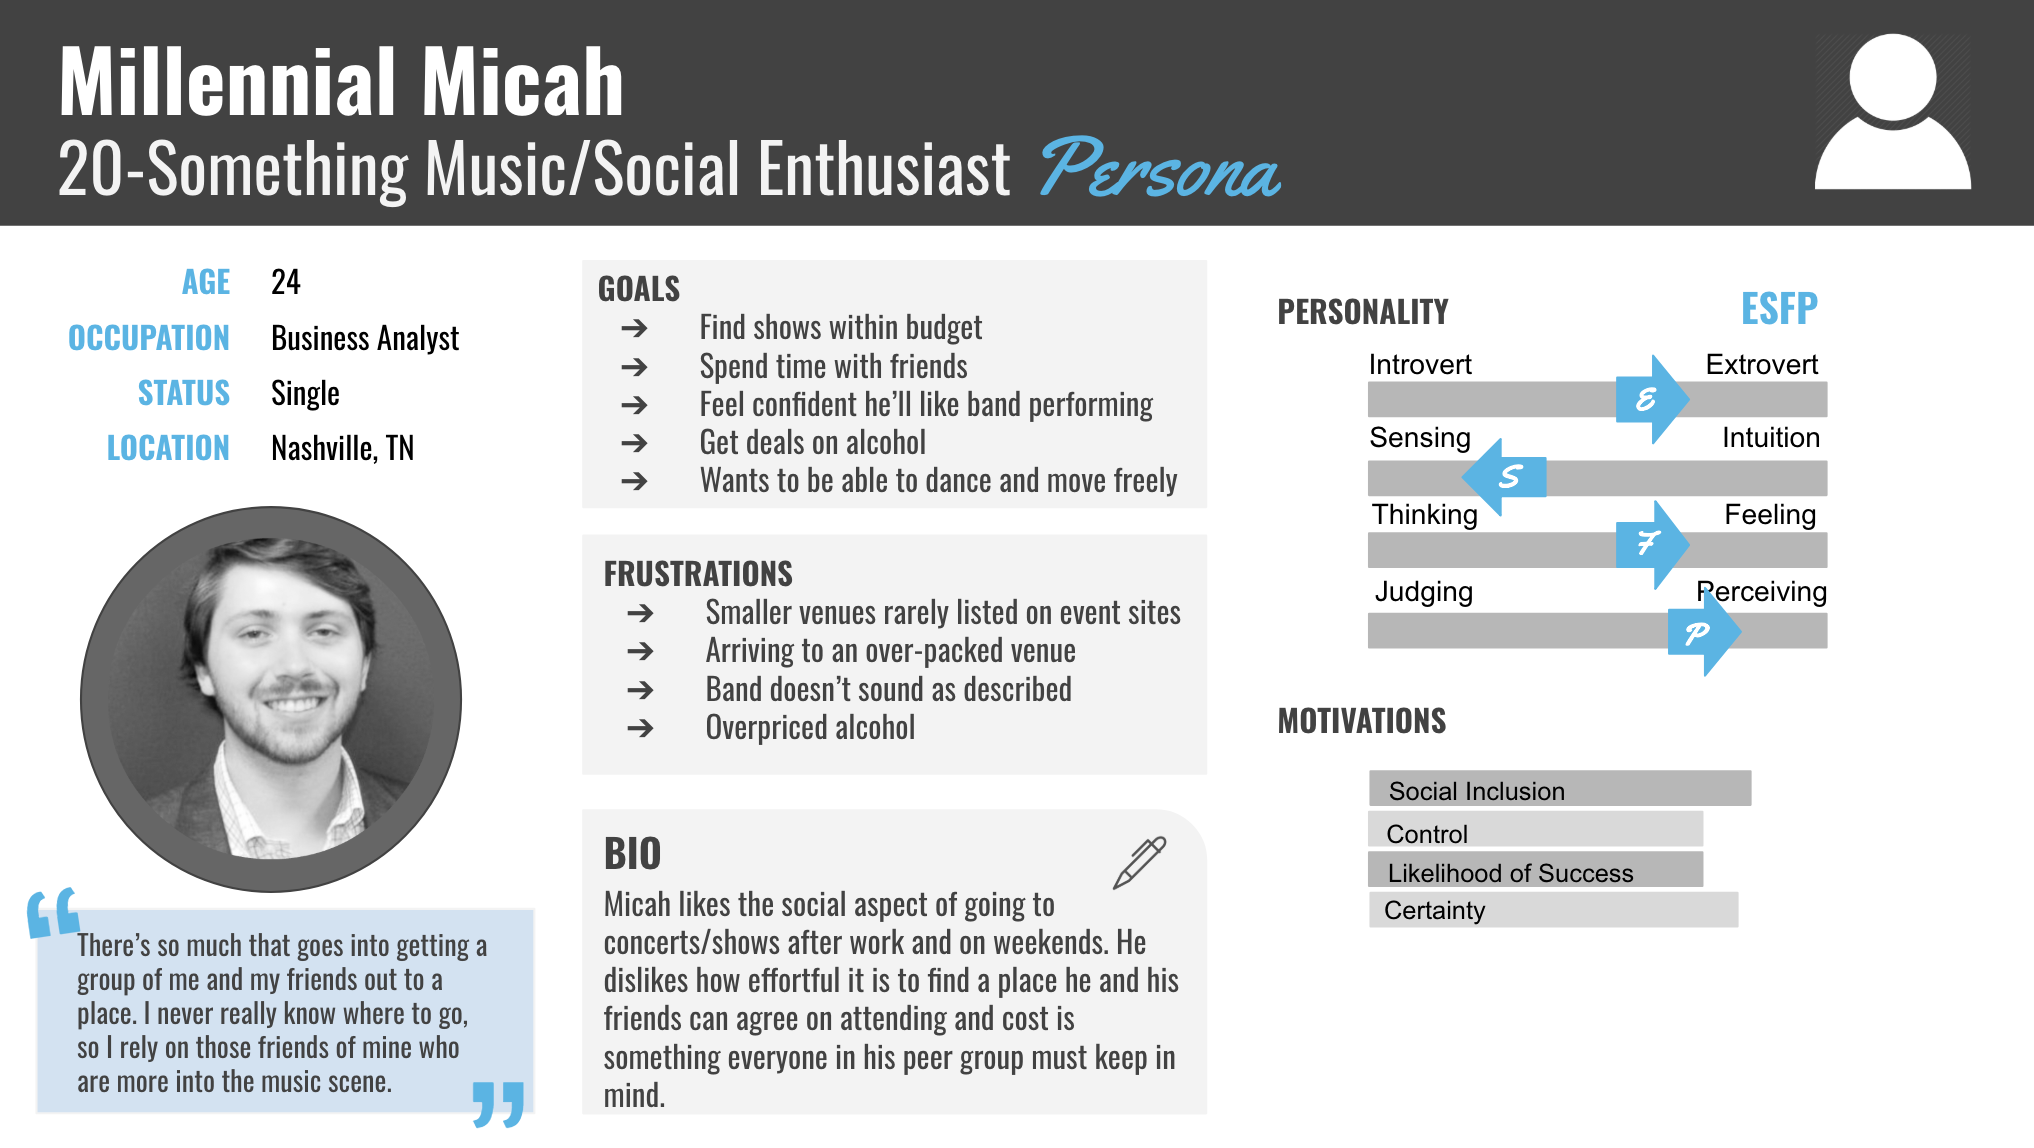
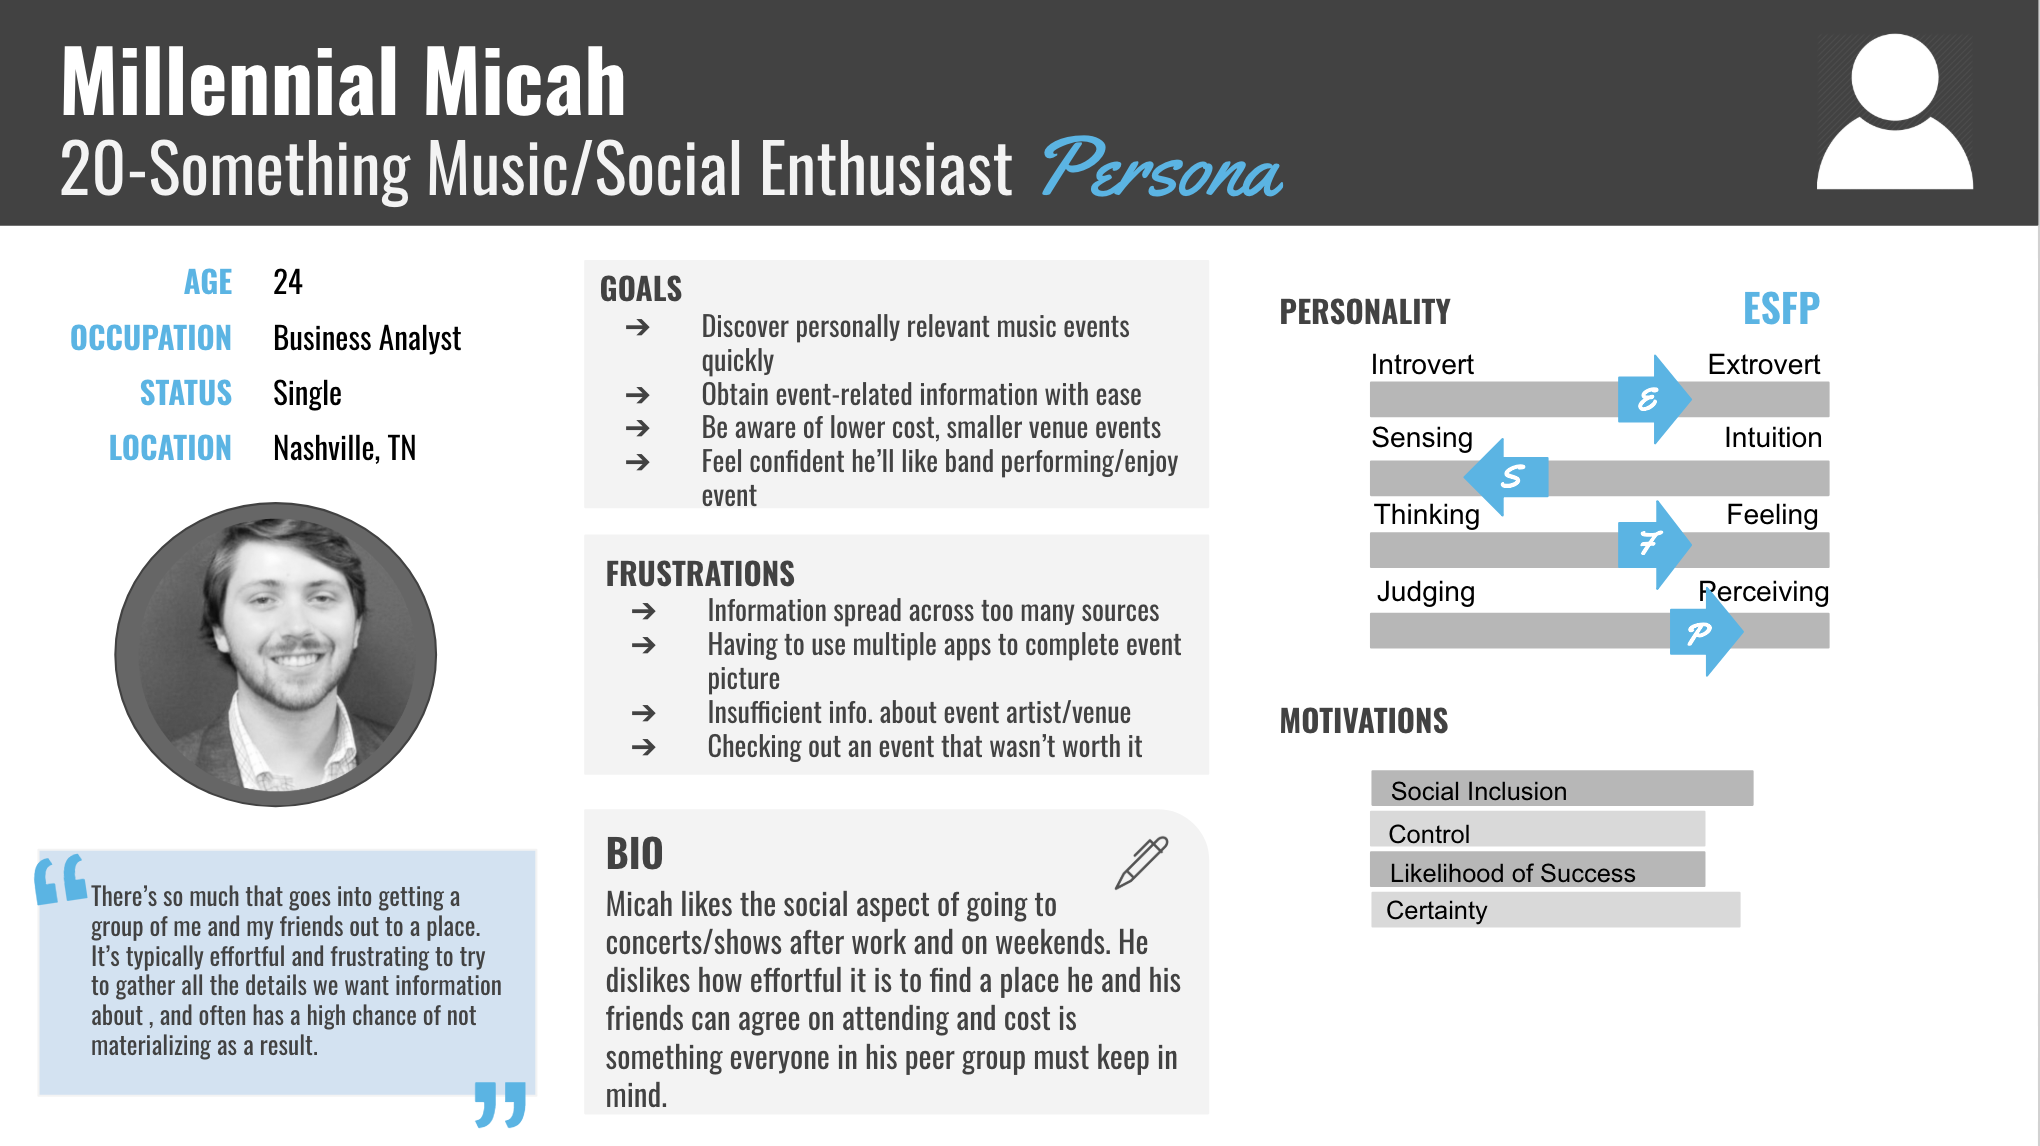
Tweaks3

diff --git a/hiKarl.html b/hiKarl.html
@@ -224,9 +224,9 @@
                 How Might We?
               </h2>
               <p class="blurbs">
-                Following a strong project kickoff meeting with stakeholders, I began the discovery process by framing the project challenge
-                in the most human way I could. What followed was a refining of the challenge into a problem statement that
-                would drive toward the ultimate impact, allow for a variety of solutions, and take context into consideration.
+                Following a project kickoff meeting with stakeholders, I began the discovery process by framing the project challenge in
+                the most human way I could. What followed was a refining of the challenge into a problem statement that would
+                drive toward the ultimate impact, allow for a variety of solutions, and take context into consideration.
               </p>
               <br>
               <br>
@@ -241,21 +241,38 @@
                 <br>
                 <br>
                 <p>Problem statement study. Used post-it notes to quickly jot down ideas, consider all statements together,
-                  and easily remove insufficent answers and insert better ones where necessary . </p>
+                  and easily remove insufficent answers and insert better ones where necessary.</p>
                 <br>
                 <br>
               </div>
 
-              <img src="img/myPics/challenge.PNG" class="img-fluid addMarginBottom d-block z-depth-3 specs" alt="Responsive image">
+              <img src="img/myPics/challenge.PNG" class="img-fluid d-block z-depth-3 specs" alt="Responsive image">
             </div>
+
+            <div class="col-xs-12 centerMe">
+              <br>
+              <br>
+              <br>
+              <p>Slide from client presentation deck.</p>
+              <br>
+              <br>
+              <br>
+              <br>
+            </div>
+
           </div>
         </div>
 
 
         <!-- 4. Understanding the Ultimate Impact -->
 
+        <br>
+        <br>
+        <br>
+
         <h2 class="section-heading openSemiBold">Understanding the Ultimate Impact</h2>
         <hr>
+        <br>
         <br>
         <br>
         <br>
@@ -265,6 +282,15 @@
 
             <div class="col-md-12">
               <img src="img/myPics/impact.PNG" class="img-fluid mx-auto d-block z-depth-3 specs" alt="Responsive image">
+
+            </div>
+
+            <div class="col-xs-12 centerMe">
+              <br>
+              <br>
+              <br>
+              <p>Slide from client presentation deck.</p>
+              <br>
               <br>
               <br>
             </div>
@@ -280,7 +306,7 @@
               <br>
               <br>
               <blockquote class="blockquote bq-primary" id="makeBlk">
-                <p>"How will you know you've achieved everything you can imagine and then it's 'all down hill from here'?"</p>
+                <p>"How will you know you've achieved everything you can imagine and that it's 'all down hill from here'?"</p>
               </blockquote>
 
             </div>
@@ -289,9 +315,10 @@
 
 
 
-        <!-- 5. Building a Representative Persona -->
+        <!-- 5. Preparing for Research -->
 
-        <h2 class="section-heading openSemiBold">Building a Provisional Persona</h2>
+        <h2 class="section-heading openSemiBold">Preparing for Research</h2>
+        <hr>
         <hr>
         <br>
         <br>
@@ -301,12 +328,16 @@
           <div class="row">
             <div class="col-md-12">
               <h2 class="headings openItalic">
-                Who's Our Target?
+                Scripting Success
               </h2>
-              <p class="blurbs"> To begin the design process with our true target audience in mind, I created user interview guides for strategic
-                customer discovery and conducted qualitative research with seven prospective users to generate a provisional
-                persona encompassing personality, demographics, key behaviors, common goals, frequent frustrations, and psychological
-                motivations.
+              <p class="blurbs"> To ensure the validity of the problem statement defined in the discovery phase and optimize the design work
+                ahead, I created user interview guides for strategic customer discovery and conducted qualitative research
+                with seven prospective users. All questions were carefully scripted ahead of time so as to elicit the most
+                useful and unbiased responses from participants. Interviews were audiotaped with subject permission for later
+                review.
+                <br>
+                <br> Participants were also asked to engage with the application as it currently existed to allow me the opprtunity
+                to observe the interaction.
               </p>
               <br>
               <br>
@@ -330,34 +361,36 @@
                   <p>Selected pages from user interview guide.</p>
                   <br>
                   <br>
+                  <br>
+                  <br>
+                  <br>
+                  <br>
+                  <br>
+                  <br>
                 </div>
               </div>
-              <!-- <img src="img/myPics/guide.PNG" class="img-fluid mx-auto d-block z-depth-3 addMarginBottom width2" alt="Responsive image">
-              <img src="img/myPics/p4.PNG" class="img-fluid mx-auto d-block z-depth-3 addMarginBottom width2" alt="Responsive image"> -->
-              <img src="img/myPics/persona.PNG" class="img-fluid mx-auto d-block z-depth-3" alt="Responsive image">
+
+              <!-- <img src="img/myPics/persona.PNG" class="img-fluid mx-auto d-block z-depth-3" alt="Responsive image"> -->
             </div>
 
-            <div class="col-xs-12 centerMe">
+            <!-- <div class="col-xs-12 centerMe">
+              <br>
+              <br>
+              <p>Commentary.</p>
               <br>
               <br>
               <br>
-              <p>Insert commentary here.</p>
               <br>
-              <br>
-              <br>
-              <br>
-
-            </div>
+            </div> -->
 
           </div>
         </div>
 
 
+        <!-- 6. Mining for Patterns -->
 
-        <!-- 6. Identifying Themes & Extracting Insights -->
 
-
-        <h2 class="section-heading openSemiBold">Identifying Themes & Extracting Insights</h2>
+        <h2 class="section-heading openSemiBold">Mining For Patterns</h2>
         <hr>
         <br>
         <br>
@@ -368,11 +401,12 @@
 
             <div class="col-md-12">
               <h2 class="headings openItalic">
-                Heading
+                Identifying Themes & Extracting Insights
               </h2>
               <p class="blurbs">
-                Donec id elit non mi porta gravida at eget metus. Fusce dapibus, tellus ac cursus commodo, tortor mauris condimentum nibh,
-                ut fermentum massa justo sit amet risus. Etiam porta sem malesuada magna mollis euismod. Donec sed odio dui.
+                While listening to playback of each audiotaped session, I quickly wrote down subject quotes, frustrations, motivations and
+                other informational tidbits on post-it notes. After then sorting these notes by affinity, a number of thematic
+                patterns surfaced that helped me then go on to build a lean persona of the user I was designing for.
               </p>
               <br>
               <br>
@@ -404,7 +438,12 @@
 
             <div class="col-xs-12 centerMe">
               <br>
-              <p>Insert commentary here.</p>
+              <p>Three of eight themes uncovered in the research phase. Design features of the existing application clearly
+                spoke to some of the themes outlined; however, many themes arose that had not been addressed in the existing
+                design. For example, the existing design recommended music events associated with the user's Spotify listening
+                habits but provided no way for users to make a quick mental association of what the recommended event artist
+                sounded like. Consequently, confidence in the prospect of enjoying an event was diminished and resulted in
+                a user being less likely to follow through and attend the event.</p>
               <br>
               <br>
               <br>
@@ -416,9 +455,53 @@
         </div>
 
 
+        <!-- 7. Building a Representative Persona -->
+
+
+        <h2 class="section-heading openSemiBold">Building a Lean Persona</h2>
+        <hr>
+        <br>
+        <br>
+        <br>
+
+        <div class="col-md-12">
+          <div class="row">
+            <div class="col-md-12">
+              <h2 class="headings openItalic">
+                Getting Off on the Goal-Directed Foot
+              </h2>
+              <p class="blurbs">
+                The thematic patterns identified in my research findings were then synthesized to generate a representative persona encompassing
+                personality, demographics, key behaviors, common goals, frequent frustrations, and psychological motivations.
+                This deliverable served as a foundation for moving forward with goal-directed design in mind.
+              </p>
+              <br>
+              <br>
+
+            </div>
+            <div class="col-md-12">
+              <img src="img/myPics/persona.PNG" class="img-fluid mx-auto d-block z-depth-3" alt="Responsive image">
+            </div>
+
+            <div class="col-xs-12 centerMe">
+              <br>
+              <br>
+              <br>
+              <p>According to Alan Cooper, author of goal-directed design methodology, it is when your persona archetype's needs
+                are satisfied in multiple scenarios that you may consider yourself on the right track.</p>
+              <br>
+              <br>
+              <br>
+              <br>
+            </div>
+
+          </div>
+        </div>
+
+
         <!-- 7. Mapping the User's Journey -->
 
-
+        <!--
         <h2 class="section-heading openSemiBold">Mapping the User's Journey</h2>
         <hr>
         <br>
@@ -455,10 +538,10 @@
             </div>
 
           </div>
-        </div>
+        </div> -->
 
 
-        <!-- 8. Examining the Existing Structure -->
+        <!-- 8. Examining the Existing Design -->
 
         <h2 class="section-heading openSemiBold">Examining the Existing Design</h2>
         <hr>
@@ -471,11 +554,15 @@
 
             <div class="col-md-12">
               <h2 class="headings openItalic">
-                Heading
+                Content Sampling
               </h2>
               <p class="blurbs">
-                Donec id elit non mi porta gravida at eget metus. Fusce dapibus, tellus ac cursus commodo, tortor mauris condimentum nibh,
-                ut fermentum massa justo sit amet risus. Etiam porta sem malesuada magna mollis euismod. Donec sed odio dui.
+                To identify what research validated user goals the existing design met and what goals had no identifiable solution, I completed
+                a quick content sample. While a highly detailed content audit is ideal, a quick top-level inventory of what
+                the existing design included was sufficient to spot what goals were being left unaddressed.
+                <br>
+                <br> The slides below simply identify the widgets in the existing design.
+
               </p>
               <br>
               <br>
@@ -507,7 +594,7 @@
 
             <div class="col-xs-12 centerMe">
               <br>
-              <p>Insert commentary here.</p>
+              <p>The existing design left much to be desired from a user perspective.</p>
               <br>
               <br>
               <br>
@@ -519,9 +606,9 @@
         </div>
 
 
-        <!-- 9. Sketching it Out -->
+        <!-- 9. Sketching Out Solutions -->
 
-        <h2 class="section-heading openSemiBold">Sketching it Out</h2>
+        <h2 class="section-heading openSemiBold">Sketching Out Solutions</h2>
         <hr>
         <br>
         <br>
@@ -531,14 +618,14 @@
           <div class="row">
             <div class="col-md-12">
               <h2 class="headings openItalic">
-                Heading
+                Low-Fi First
               </h2>
               <p class="blurbs">
-                Donec id elit non mi porta gravida at eget metus. Fusce dapibus, tellus ac cursus commodo, tortor mauris condimentum nibh,
-                ut fermentum massa justo sit amet risus. Etiam porta sem malesuada magna mollis euismod. Donec sed odio dui.
-              </p>
-              <br>
-              <br>
+                Before entertaining the idea of wireframes, I quickly iterate over design ideas by sketching them out by hand. The main purpose
+                of this phase is to consider the content and focus on the general structure of information before investing
+                time in a more mid-fidelty deliverable.
+                <br>
+                <br>
 
             </div>
             <div class="col-md-12">
@@ -549,7 +636,7 @@
 
             <div class="col-xs-12 centerMe">
               <br>
-              <p>Insert commentary here.</p>
+              <p>Keeping it simple.</p>
               <br>
               <br>
               <br>
@@ -563,7 +650,7 @@
         <!-- 10. Wireframing for Structure & Hierarchy -->
 
 
-        <h2 class="section-heading openSemiBold">Wireframing for Structure & Hierarchy</h2>
+        <h2 class="section-heading openSemiBold">Wireframing for Structure & Function</h2>
         <hr>
         <br>
         <br>
@@ -576,8 +663,12 @@
                 Fast, Efficient, & Enough
               </h2>
               <p class="blurbs">
-                Donec id elit non mi porta gravida at eget metus. Fusce dapibus, tellus ac cursus commodo, tortor mauris condimentum nibh,
-                ut fermentum massa justo sit amet risus. Etiam porta sem malesuada magna mollis euismod. Donec sed odio dui.
+                Using a monochrome wireframe (over colored or grayscale) to force viewers to focus on element structure and arrangement rather
+                than style, I utilized the design software Sketch to quickly produce a wireframe that prioritized visual
+                clarity and function.
+                <br>
+                <br> I included both existing widgets and new, research validated additional widgets in the wireframe. After
+                making necessary revisions and reaching stakeholder consensus, I moved on to producing a prototype .
               </p>
               <br>
               <br>
@@ -591,7 +682,7 @@
 
             <div class="col-xs-12 centerMe">
               <br>
-              <p>Insert commentary here.</p>
+              <p>Winning at Wireframes: No style is the best style.</p>
               <br>
               <br>
               <br>
@@ -639,7 +730,7 @@
 
 
 
-        <h2 class="section-heading openSemiBold">Prototyping for Testing & Validation</h2>
+        <!-- <h2 class="section-heading openSemiBold">Prototyping for Testing & Validation</h2>
         <hr>
         <br>
         <br>
@@ -670,7 +761,7 @@
 
 
 
-        <hr>
+        <hr> -->
 
 
 
